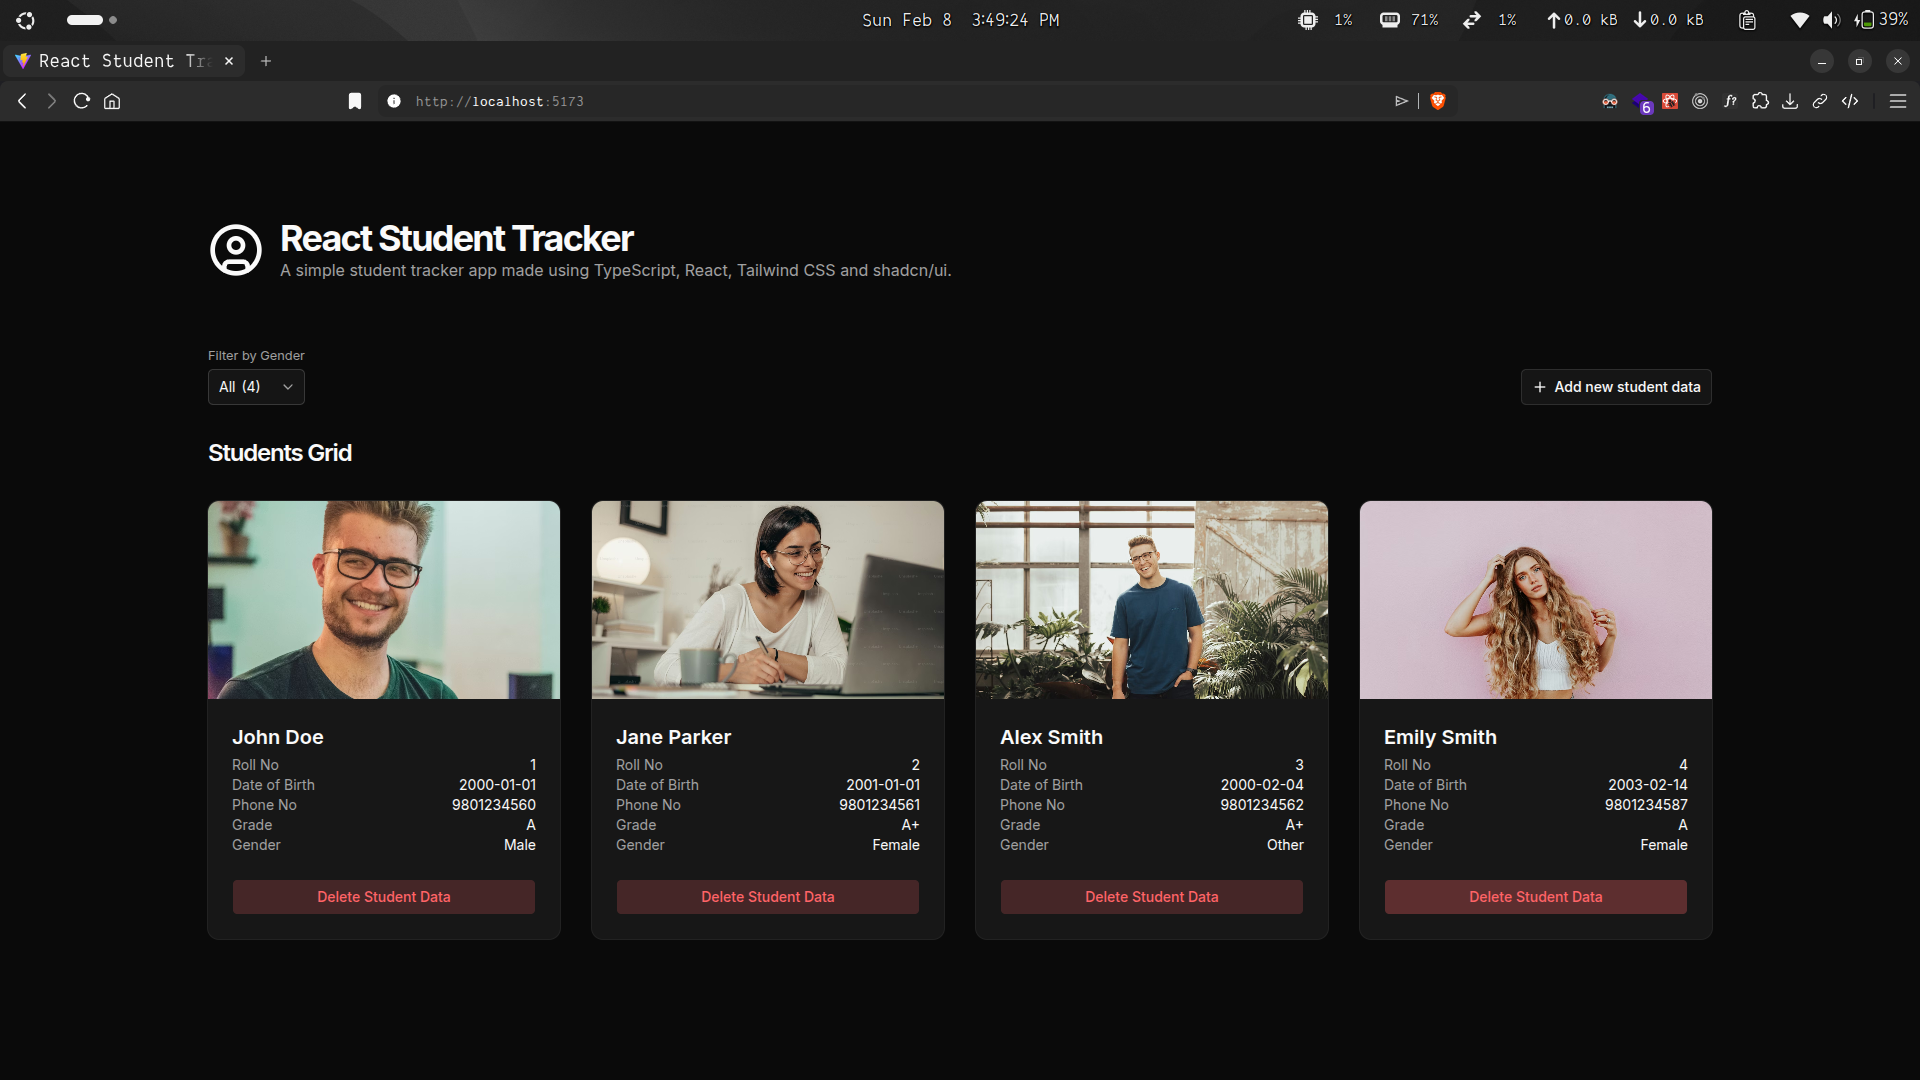
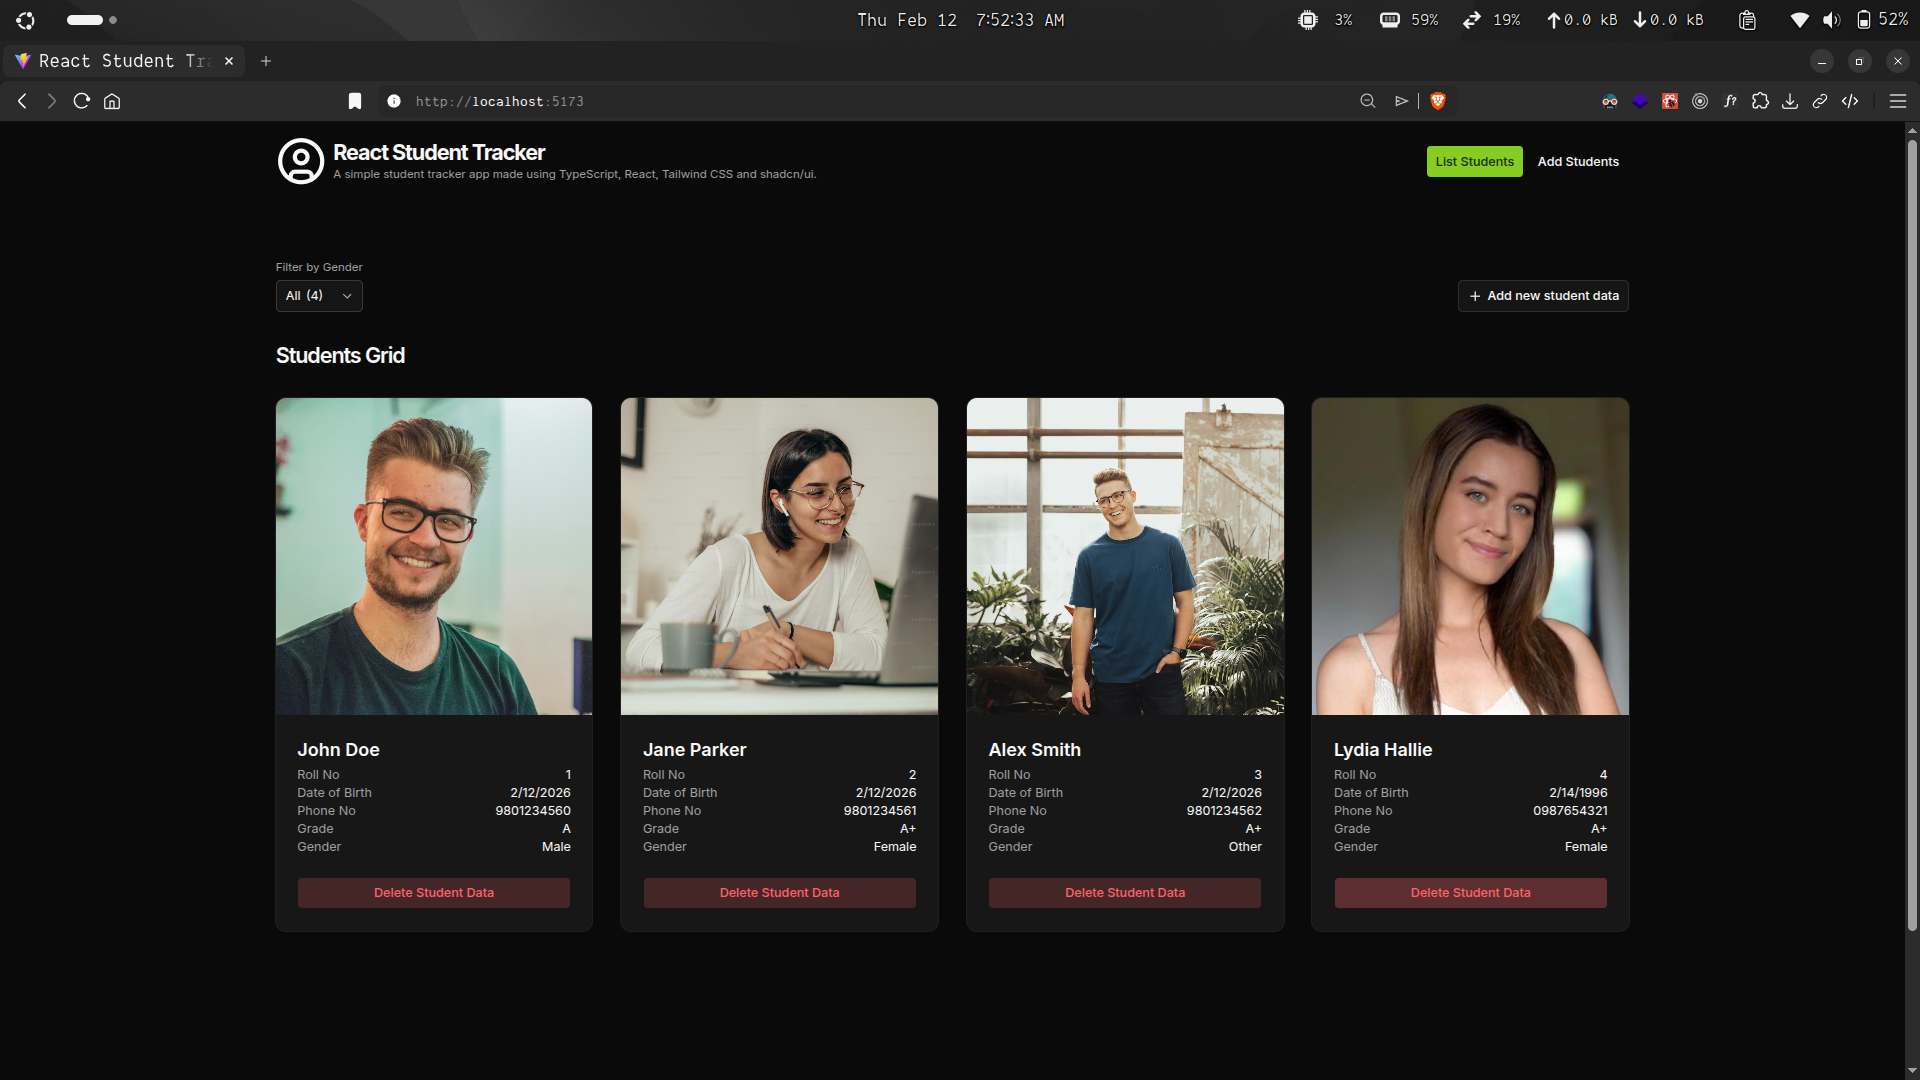
docs: update site preview and info

diff --git a/README.md b/README.md
@@ -10,12 +10,14 @@ A simple student tracker app made using TypeScript, React, Tailwind CSS and shad
 - `shadcn/ui`
 - `zod`
 - `react-hook-form`
+- `react-router`
 
 ## Features
 
-- Clean UI
+- Clean and screen size responsive UI
 - Client input validation using `react-hook-form` and `zod`
 - Sync with `localstorage` for data persistence
+- Pages routing
 
 ## Preview
 
